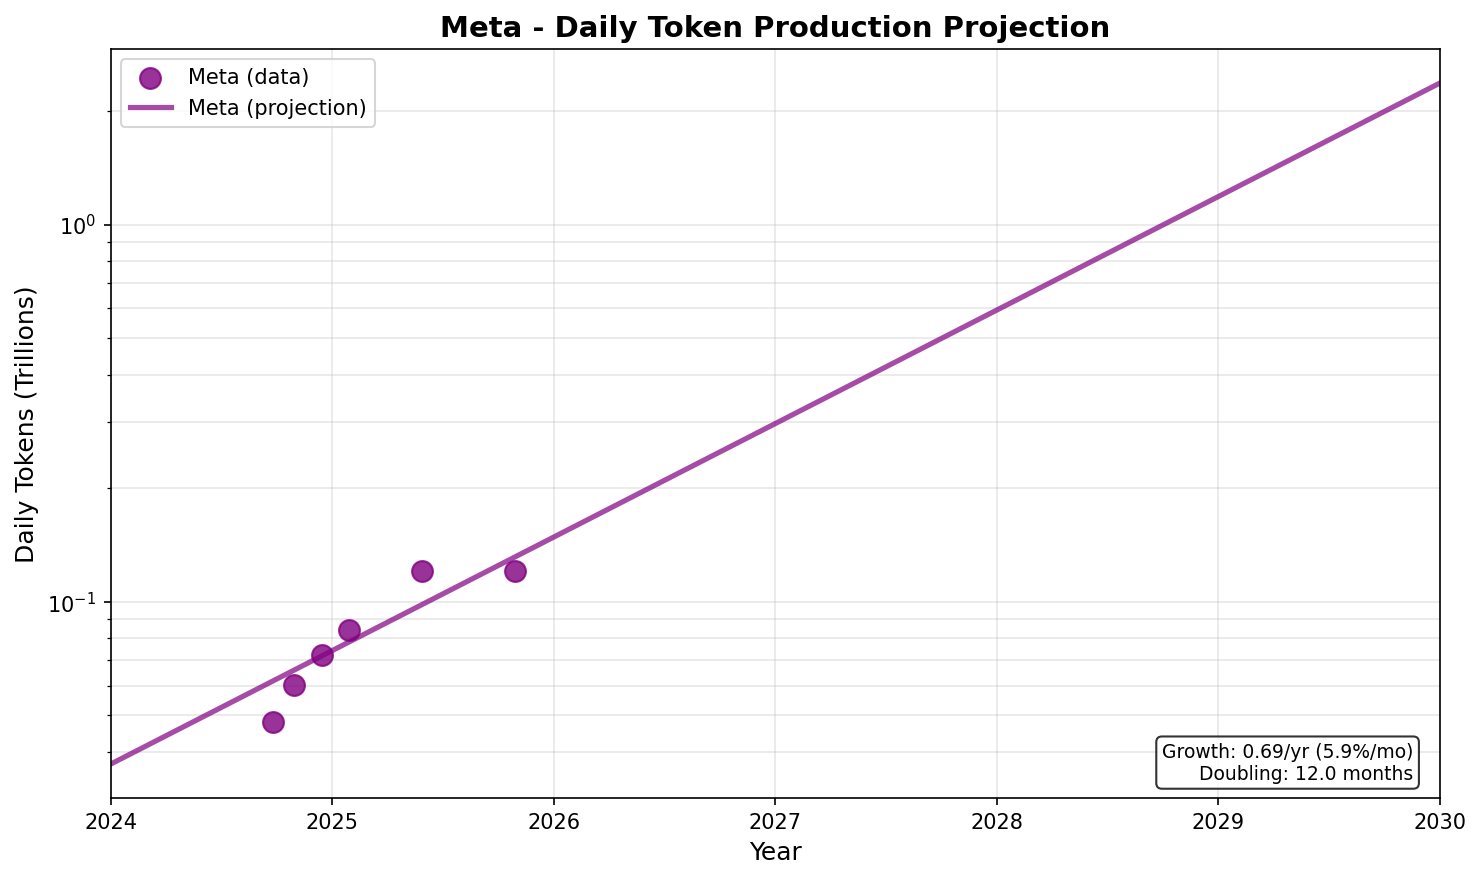
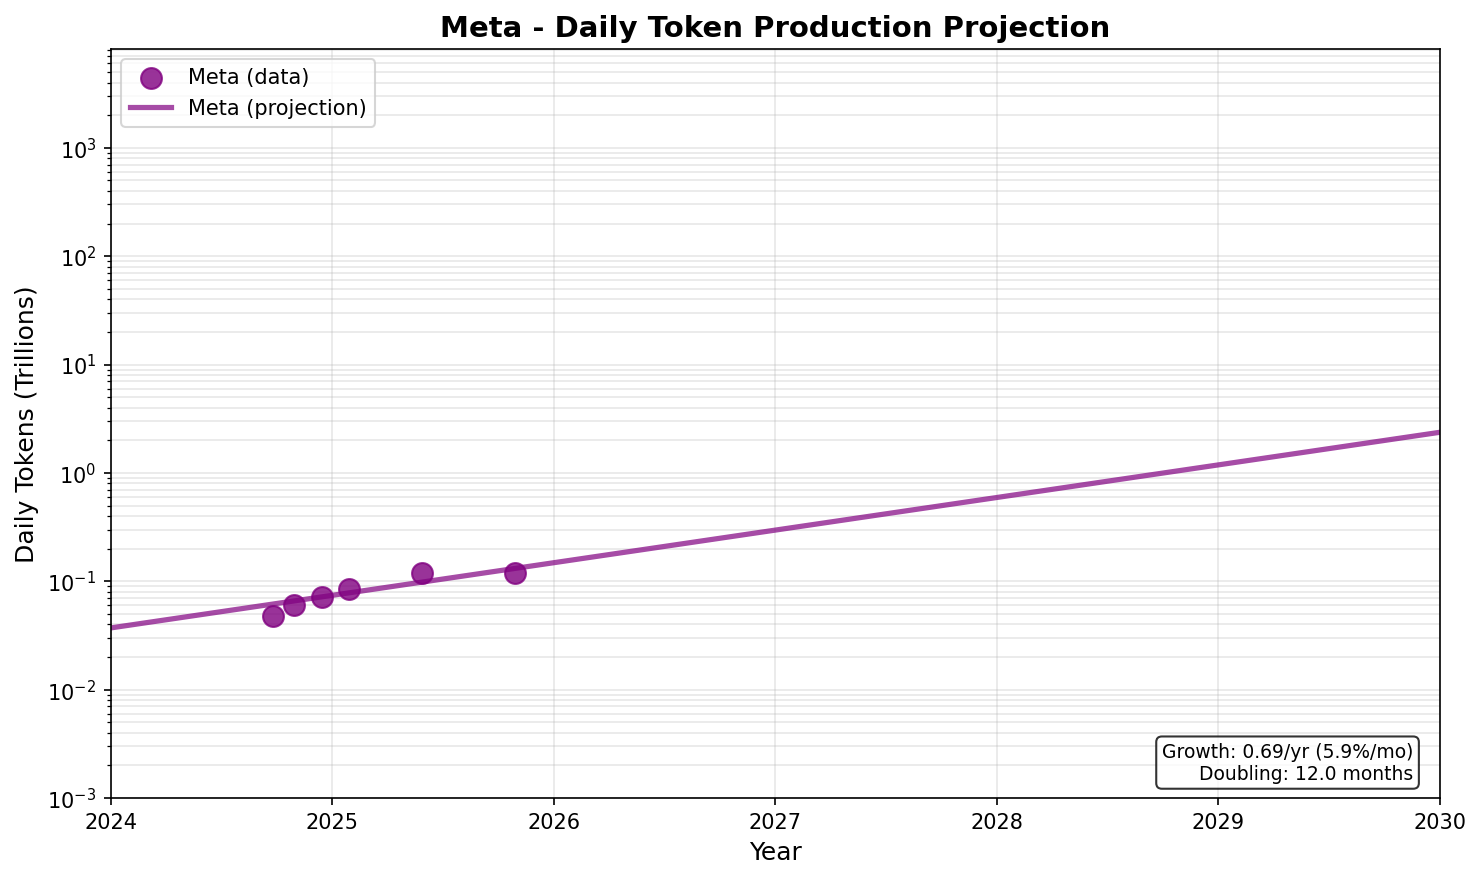
Stuff

diff --git a/python/welfareseconds/per_company_daily_token_projection.py b/python/welfareseconds/per_company_daily_token_projection.py
@@ -915,7 +915,7 @@ def create_visualization(companies: dict, models: dict, projections: dict,
         'Google': '#4285f4',      # Google blue
         'Meta': '#800080',        # Meta purple
         'Anthropic': '#d4a574',   # Anthropic tan/brown
-        'xAI': '#1da1f2',         # xAI/Twitter blue
+        'xAI': '#ff8c00',         # xAI orange
         'All': '#333333',         # Dark gray for total
     }
     
@@ -961,18 +961,19 @@ def create_visualization(companies: dict, models: dict, projections: dict,
     # Time range for plotting
     t_plot = np.linspace(PLOT_BEGIN_DATE, PLOT_END_DATE, 300)
     
-    # Plot each company
+    # Plot each company - markers only for OpenAI/Gemini, markers + trendlines for others
     for name, df in companies.items():
-        # Plot data points
+        # Plot data points (markers) for all
         ax.scatter(df['decimal_date'], df['daily_tokens'] / 1e12, 
                    s=80, color=colors[name], marker=markers[name], 
                    alpha=0.7, zorder=5, label=f'{name}')
         
-        # Plot trendline
-        params = models[name]
-        y_fit = exponential_model(t_plot - 2024, params['a'], params['b']) / 1e12
-        ax.plot(t_plot, y_fit, linestyle=linestyles[name], color=colors[name], 
-                alpha=0.6, linewidth=2)
+        # Only plot individual trendlines for non-OpenAI, non-Gemini companies
+        if not name.startswith('OpenAI') and not name.startswith('Gemini'):
+            params = models[name]
+            y_fit = exponential_model(t_plot - 2024, params['a'], params['b']) / 1e12
+            ax.plot(t_plot, y_fit, linestyle=linestyles[name], color=colors[name], 
+                    alpha=0.6, linewidth=2)
     
     # Plot Google "All AI Products" data points for reference (no trendline)
     # These include Search AI Overviews, Translate, etc. which don't scale the same way
@@ -982,54 +983,35 @@ def create_visualization(companies: dict, models: dict, projections: dict,
                s=100, color=company_colors['Google'], marker='X', 
                alpha=0.7, zorder=5, label='Google (All Products)')
     
-    # Calculate and plot "All" (total) line
-    # Group series by company and average before summing
+    # Calculate combined lines for OpenAI and Google
     # OpenAI has 3 estimation methods: (ChatGPT + API), Inference-scaled, Revenue-scaled
     # Google has 2 products: Gemini Assistant + Gemini API (sum these)
-    # Meta, Anthropic, xAI each have 1 series
     
-    company_estimates = {
-        'OpenAI': [],
-        'Google': [],
-        'Meta': [],
-        'Anthropic': [],
-        'xAI': [],
-    }
+    # Calculate OpenAI projections
+    openai_chatgpt = exponential_model(t_plot - 2024, models['OpenAI ChatGPT']['a'], models['OpenAI ChatGPT']['b']) / 1e12
+    openai_api = exponential_model(t_plot - 2024, models['OpenAI API']['a'], models['OpenAI API']['b']) / 1e12
+    openai_inference = exponential_model(t_plot - 2024, models['OpenAI (Inference)']['a'], models['OpenAI (Inference)']['b']) / 1e12
+    openai_revenue = exponential_model(t_plot - 2024, models['OpenAI (Revenue)']['a'], models['OpenAI (Revenue)']['b']) / 1e12
     
-    # Calculate each series
-    for name in companies.keys():
-        params = models[name]
-        series = exponential_model(t_plot - 2024, params['a'], params['b']) / 1e12
-        
-        if name.startswith('OpenAI'):
-            company_estimates['OpenAI'].append((name, series))
-        elif name.startswith('Gemini'):
-            company_estimates['Google'].append((name, series))
-        elif name == 'Meta':
-            company_estimates['Meta'].append((name, series))
-        elif name == 'Anthropic':
-            company_estimates['Anthropic'].append((name, series))
-        elif name == 'xAI':
-            company_estimates['xAI'].append((name, series))
+    # OpenAI average: (ChatGPT + API), Inference, Revenue
+    openai_method1 = openai_chatgpt + openai_api
+    openai_avg = (openai_method1 + openai_inference + openai_revenue) / 3
     
-    # For OpenAI: average 3 methods: (ChatGPT + API), Inference, Revenue
-    openai_chatgpt = next((s for n, s in company_estimates['OpenAI'] if 'ChatGPT' in n), None)
-    openai_api = next((s for n, s in company_estimates['OpenAI'] if n == 'OpenAI API'), None)
-    openai_inference = next((s for n, s in company_estimates['OpenAI'] if 'Inference' in n), None)
-    openai_revenue = next((s for n, s in company_estimates['OpenAI'] if 'Revenue' in n), None)
+    # Calculate Google/Gemini projections
+    gemini_assistant = exponential_model(t_plot - 2024, models['Gemini Assistant']['a'], models['Gemini Assistant']['b']) / 1e12
+    gemini_api = exponential_model(t_plot - 2024, models['Gemini API']['a'], models['Gemini API']['b']) / 1e12
+    google_total = gemini_assistant + gemini_api
     
-    openai_method1 = openai_chatgpt + openai_api if openai_chatgpt is not None and openai_api is not None else np.zeros_like(t_plot)
-    openai_method2 = openai_inference if openai_inference is not None else np.zeros_like(t_plot)
-    openai_method3 = openai_revenue if openai_revenue is not None else np.zeros_like(t_plot)
-    openai_avg = (openai_method1 + openai_method2 + openai_method3) / 3
+    # Plot combined lines for OpenAI and Google
+    ax.plot(t_plot, openai_avg, '-', color=company_colors['OpenAI'], linewidth=2.5, 
+            alpha=0.8, label='OpenAI (combined)')
+    ax.plot(t_plot, google_total, '-', color=company_colors['Google'], linewidth=2.5, 
+            alpha=0.8, label='Google (combined)')
     
-    # For Google: sum Gemini Assistant + Gemini API
-    google_total = sum(s for _, s in company_estimates['Google'])
-    
-    # For others: just use single series
-    meta_total = sum(s for _, s in company_estimates['Meta'])
-    anthropic_total = sum(s for _, s in company_estimates['Anthropic'])
-    xai_total = sum(s for _, s in company_estimates['xAI'])
+    # For others: calculate single series
+    meta_total = exponential_model(t_plot - 2024, models['Meta']['a'], models['Meta']['b']) / 1e12
+    anthropic_total = exponential_model(t_plot - 2024, models['Anthropic']['a'], models['Anthropic']['b']) / 1e12
+    xai_total = exponential_model(t_plot - 2024, models['xAI']['a'], models['xAI']['b']) / 1e12
     
     # Load population data and calculate human token-equivalents per day
     # Formula: population * 16 hours/day * 60 min/hr * 60 sec/min * HUMAN_TOKENS_PER_SECOND
@@ -1042,11 +1024,20 @@ def create_visualization(companies: dict, models: dict, projections: dict,
     human_token_equivalents = pop_interpolated * 16 * 60 * 60 * HUMAN_TOKENS_PER_SECOND / 1e12  # in trillions
     ax.plot(t_plot, human_token_equivalents, color='red', linestyle='--', linewidth=2, label='Human Token-Equivalents')
 
-    # Sum all companies
-    total = openai_avg + google_total + meta_total + anthropic_total + xai_total
+    # Sum US companies (the 5 we track)
+    us_total = openai_avg + google_total + meta_total + anthropic_total + xai_total
     
-    ax.plot(t_plot, total, '-', color=company_colors['All'], linewidth=3, 
-            label='All (avg per company)', zorder=4)
+    # Estimate non-American companies: US is ~75% of global compute, so non-US is ~25%
+    # non_us = us_total * (25/75) = us_total / 3
+    non_us_total = us_total / 3
+    ax.plot(t_plot, non_us_total, '-.', color='#888888', linewidth=2, 
+            alpha=0.8, label='Other (non-American est.)')
+    
+    # Global total = US + non-US
+    global_total = us_total + non_us_total
+    
+    ax.plot(t_plot, global_total, '-', color=company_colors['All'], linewidth=3, 
+            label='Global Total', zorder=4)
     
     ax.set_yscale('log')
     ax.set_xlabel('Year', fontsize=12)
@@ -1083,7 +1074,7 @@ def create_individual_company_plots(companies: dict, models: dict):
         'Google': '#4285f4',
         'Meta': '#800080',
         'Anthropic': '#d4a574',
-        'xAI': '#1da1f2',
+        'xAI': '#ff8c00',  # Orange
     }
     
     # Map each category to its company color
@@ -1114,6 +1105,38 @@ def create_individual_company_plots(companies: dict, models: dict):
     
     # Time range for plotting
     t_plot = np.linspace(PLOT_BEGIN_DATE, PLOT_END_DATE, 300)
+    
+    # ==========================================================================
+    # Pre-compute max y-value for consistent y-axis across all company plots
+    # ==========================================================================
+    max_y_values = []
+    
+    # OpenAI: compute average projection
+    openai_chatgpt = exponential_model(t_plot - 2024, models['OpenAI ChatGPT']['a'], models['OpenAI ChatGPT']['b']) / 1e12
+    openai_api = exponential_model(t_plot - 2024, models['OpenAI API']['a'], models['OpenAI API']['b']) / 1e12
+    openai_inference = exponential_model(t_plot - 2024, models['OpenAI (Inference)']['a'], models['OpenAI (Inference)']['b']) / 1e12
+    openai_revenue = exponential_model(t_plot - 2024, models['OpenAI (Revenue)']['a'], models['OpenAI (Revenue)']['b']) / 1e12
+    openai_avg = ((openai_chatgpt + openai_api) + openai_inference + openai_revenue) / 3
+    max_y_values.append(np.max(openai_avg))
+    
+    # Google: compute combined projection + all AI products reference points
+    gemini_assistant = exponential_model(t_plot - 2024, models['Gemini Assistant']['a'], models['Gemini Assistant']['b']) / 1e12
+    gemini_api = exponential_model(t_plot - 2024, models['Gemini API']['a'], models['Gemini API']['b']) / 1e12
+    gemini_combined = gemini_assistant + gemini_api
+    max_y_values.append(np.max(gemini_combined))
+    # Also consider Google "All AI Products" reference points
+    google_all_daily_tokens = [dp.value / 30 / 1e12 for dp in google_data['monthly_tokens_all_products']]
+    max_y_values.append(np.max(google_all_daily_tokens))
+    
+    # Other companies
+    for name in ['Meta', 'Anthropic', 'xAI']:
+        params = models[name]
+        y_fit = exponential_model(t_plot - 2024, params['a'], params['b']) / 1e12
+        max_y_values.append(np.max(y_fit))
+    
+    # Set consistent y-axis limits (with some padding)
+    y_max = max(max_y_values) * 1.5  # Add 50% padding
+    y_min = 0.001  # Minimum of 0.001T = 1B tokens/day
     
     # ==========================================================================
     # Create combined OpenAI plot with all methods
@@ -1168,6 +1191,7 @@ def create_individual_company_plots(companies: dict, models: dict):
     ax.legend(loc='upper left', fontsize=9)
     ax.grid(True, alpha=0.3, which='both')
     ax.set_xlim(PLOT_BEGIN_DATE, PLOT_END_DATE)
+    ax.set_ylim(y_min, y_max)
     
     plt.tight_layout()
     filepath = os.path.join(PLOTS_FOLDER, 'openai_combined_projection.png')
@@ -1227,6 +1251,7 @@ def create_individual_company_plots(companies: dict, models: dict):
     ax.legend(loc='upper left', fontsize=9)
     ax.grid(True, alpha=0.3, which='both')
     ax.set_xlim(PLOT_BEGIN_DATE, PLOT_END_DATE)
+    ax.set_ylim(y_min, y_max)
     
     plt.tight_layout()
     filepath = os.path.join(PLOTS_FOLDER, 'google_combined_projection.png')
@@ -1263,6 +1288,7 @@ def create_individual_company_plots(companies: dict, models: dict):
         ax.legend(loc='upper left', fontsize=10)
         ax.grid(True, alpha=0.3, which='both')
         ax.set_xlim(PLOT_BEGIN_DATE, PLOT_END_DATE)
+        ax.set_ylim(y_min, y_max)
         
         # Add growth rate annotation
         doubling_time = np.log(2) / params['b'] if params['b'] > 0 else float('inf')

diff --git a/python/welfareseconds/welfare_post.md b/python/welfareseconds/welfare_post.md
@@ -29,6 +29,7 @@ To be clear, I don't believe in the maximalist interpretation. However, I do thi
     3. Google
     4. Meta
     5. xAI
+    6. Bringing it together
 3. When will the crossover happen?
 4. Summary
 
@@ -118,7 +119,7 @@ Here's a plot of Anthropic's token projections:
 We actually have a lot of data for Google:
 1. Total tokens across all Google AI products
 2. Gemini Monthly Active User (MAU) data
-3. Gemini daily chat messages (one point-in-time estimate)
+3. Gemini daily chat messages (one point-in-time estimate), [from a Google antitrust court testimonal](https://www.theinformation.com/briefings/googles-gemini-user-numbers-revealed-court). 
 4. Gemini API tokens/min (one point-in-time estimate)
 
 If we could just use the total tokens across all Google AI products, that would be great! These numbers are reported directly by Google, and have exactly the metric we want, tokens. There's one issue: their numbers absolutely dwarf everone else's. They [report 43T tokens/day on Sep 30, 2025](https://x.com/demishassabis/status/1976712484657475691). This is 10.2x our best guess (computed above) for OpenAI at the same date. 
@@ -129,7 +130,7 @@ So, we'll ignore those data points, and use a similar approach to OpenAI's per-p
 
 #### Approaches
 **Product-Based**: We'll directly look at Gemini Assistant usage and the Gemini API, attempt to calculate how many tokens they use individually, and then combine them.
-* **Gemini Assistant**: We have many MAU data points, allowing us to draw a growth curve for the number of MAUs. Since we have the [daily messages for March 28, 2025](https://www.theinformation.com/briefings/googles-gemini-user-numbers-revealed-court), we can interpolate the number of MAUs at that point, and calculate how many messages a monthly active user sends per day. If we do the math, we end up with about 0.4 messages/day. We'll use the same 512 tokens/message figure as ChatGPT. 
+* **Gemini Assistant**: We have many MAU data points, allowing us to draw a growth curve for the number of MAUs. Since we have the daily messages for March 28, 2025, we can interpolate the number of MAUs at that point, and calculate how many messages a monthly active user sends per day. If we do the math, we end up with about 0.4 messages/day. We'll use the same 512 tokens/message figure as ChatGPT. 
 * **Gemini API**: Similar to OpenAI, we have a single direct token measurement (10.08T/day, from [their earnings report](https://s206.q4cdn.com/479360582/files/doc_financials/2025/q3/2025q3-alphabet-earnings-release.pdf)). Like what we did in OpenAI, we'll impute the growth rate as the industry average growth rate, with the associated caveats that this is not necessarily sound.
 
 We add these estimates together to produce a final guess for the *relevant* component of Google's tokens:
@@ -142,20 +143,48 @@ One thing to notice is that the API Gemini usage basically dominates the assista
 
 ### Meta
 
-- **Data available**: Rich MAU data (400M Sep 2024 → 1B May 2025, then plateaued), daily messages (200M, Mar 2025 from Google antitrust trial)
-- **Challenge**: MAU data is abundant but messages data is sparse (single point)
-- **Approach**: 
-  - Interpolate MAU at Mar 2025 (~850M) from surrounding data points
-  - Compute messages/MAU ratio: 200M messages / 850M MAU = 0.235 messages/MAU/day
-  - Apply ratio to all MAU data points, convert to tokens (× 512 tokens/message)
-- **Rationale**: MAU growth drives message growth; the messages/MAU ratio captures engagement intensity and allows extrapolation from the richer MAU dataset
+Meta is basically a pure assistant platform. They don't have a popular enterprise AI offering. We have pretty good data on their monthly active users (6 data points), and one point in time estimate of daily messages from the [same court testimonial](https://www.theinformation.com/briefings/googles-gemini-user-numbers-revealed-court). 
+
+#### Approaches
+**MAU-based**: We can use a similar approach as the one we did for Gemini Assistant. We interpolate the number of MAUs at March 28, and then find how many messages a monthly active user sends per day. For Meta, this turns out to be 0.235, less than Google. We can then multiply by 512 tokens/message as before. 
+
+Here's the graph:
+![Meta Token Projections](plots/meta_projection.png)
+
+Unfortunately for Meta, they do not make up a large proportion of future tokens. 
 
 ### xAI
+
+We have relatively little data about xAI. We have 4 revenue data points starting from Nov 2024. We also have their daily message count from the Google trial. 
+
+We'll use the revenue-based method since it's the only one we're able to draw a curve with:
+
+#### Approaches
+
+**Revenue-based**: Like we did before for Anthropic, we can draw a curve through the revenue for xAI, and then scale it using the same 69.20 tokens/day per \$ of revenue that we get for OpenAI.
+
+Unlike Anthropic, we don't have inference compute to sanity check against. Unfortunately, xAI has both API and Chat revenue, so we can't really use their chat message count to validate that the token count lines up, since it would give us an artificially inflated token count per message (since we'd count API tokens in the chat bucket).  
+
+In any case, here's the graph:
+![Meta Token Projections](plots/xai_projection.png)
+
 
 - **Data available**: Revenue data (4 points: $100M Nov 2024 → $500M Jul 2025), daily messages (75M, Mar 2025 from Google trial)
 - **Challenge**: No direct token or inference spend data; newest and smallest of the major players
 - **Approach**: Use tokens-per-revenue ratio (same as Anthropic method), apply to xAI's revenue data
 - **Rationale**: Revenue-based estimation is the most reliable method given available data; actual revenue growth (4 points) is better than arbitrary assumptions
+
+### Bringing it all together
+
+Note that just summing the above 5 companies won't be sufficient to get global token counts. We're not accounting for Chinese companies and other competitors. Unfortunately, I wasn't able to find detailed data for MAUs or API usage for Chinese companies. We also don't have detailed data on smaller American and European companies (although I suspect these wouldn't change the balance significantly). 
+
+To resolve this, we'll take the ratio of rest of the world's compute to the US's compute, and multiply the overall result by that. Epoch also helpfully [provides this ratio](https://epoch.ai/blog/trends-in-ai-supercomputers). It turns out the US controls about 75% of worldwide compute as of March 2025, and China around 15%. 
+
+Now that we have all 5 AI companies, plus the estimate of other players, let's see what it looks like when we put them on the same graph (alongside the human token projection as well):
+
+![Combined Graph](per_company_token_projection.png)
+
+## When will the crossover happen?
 
 ## Summary
 
